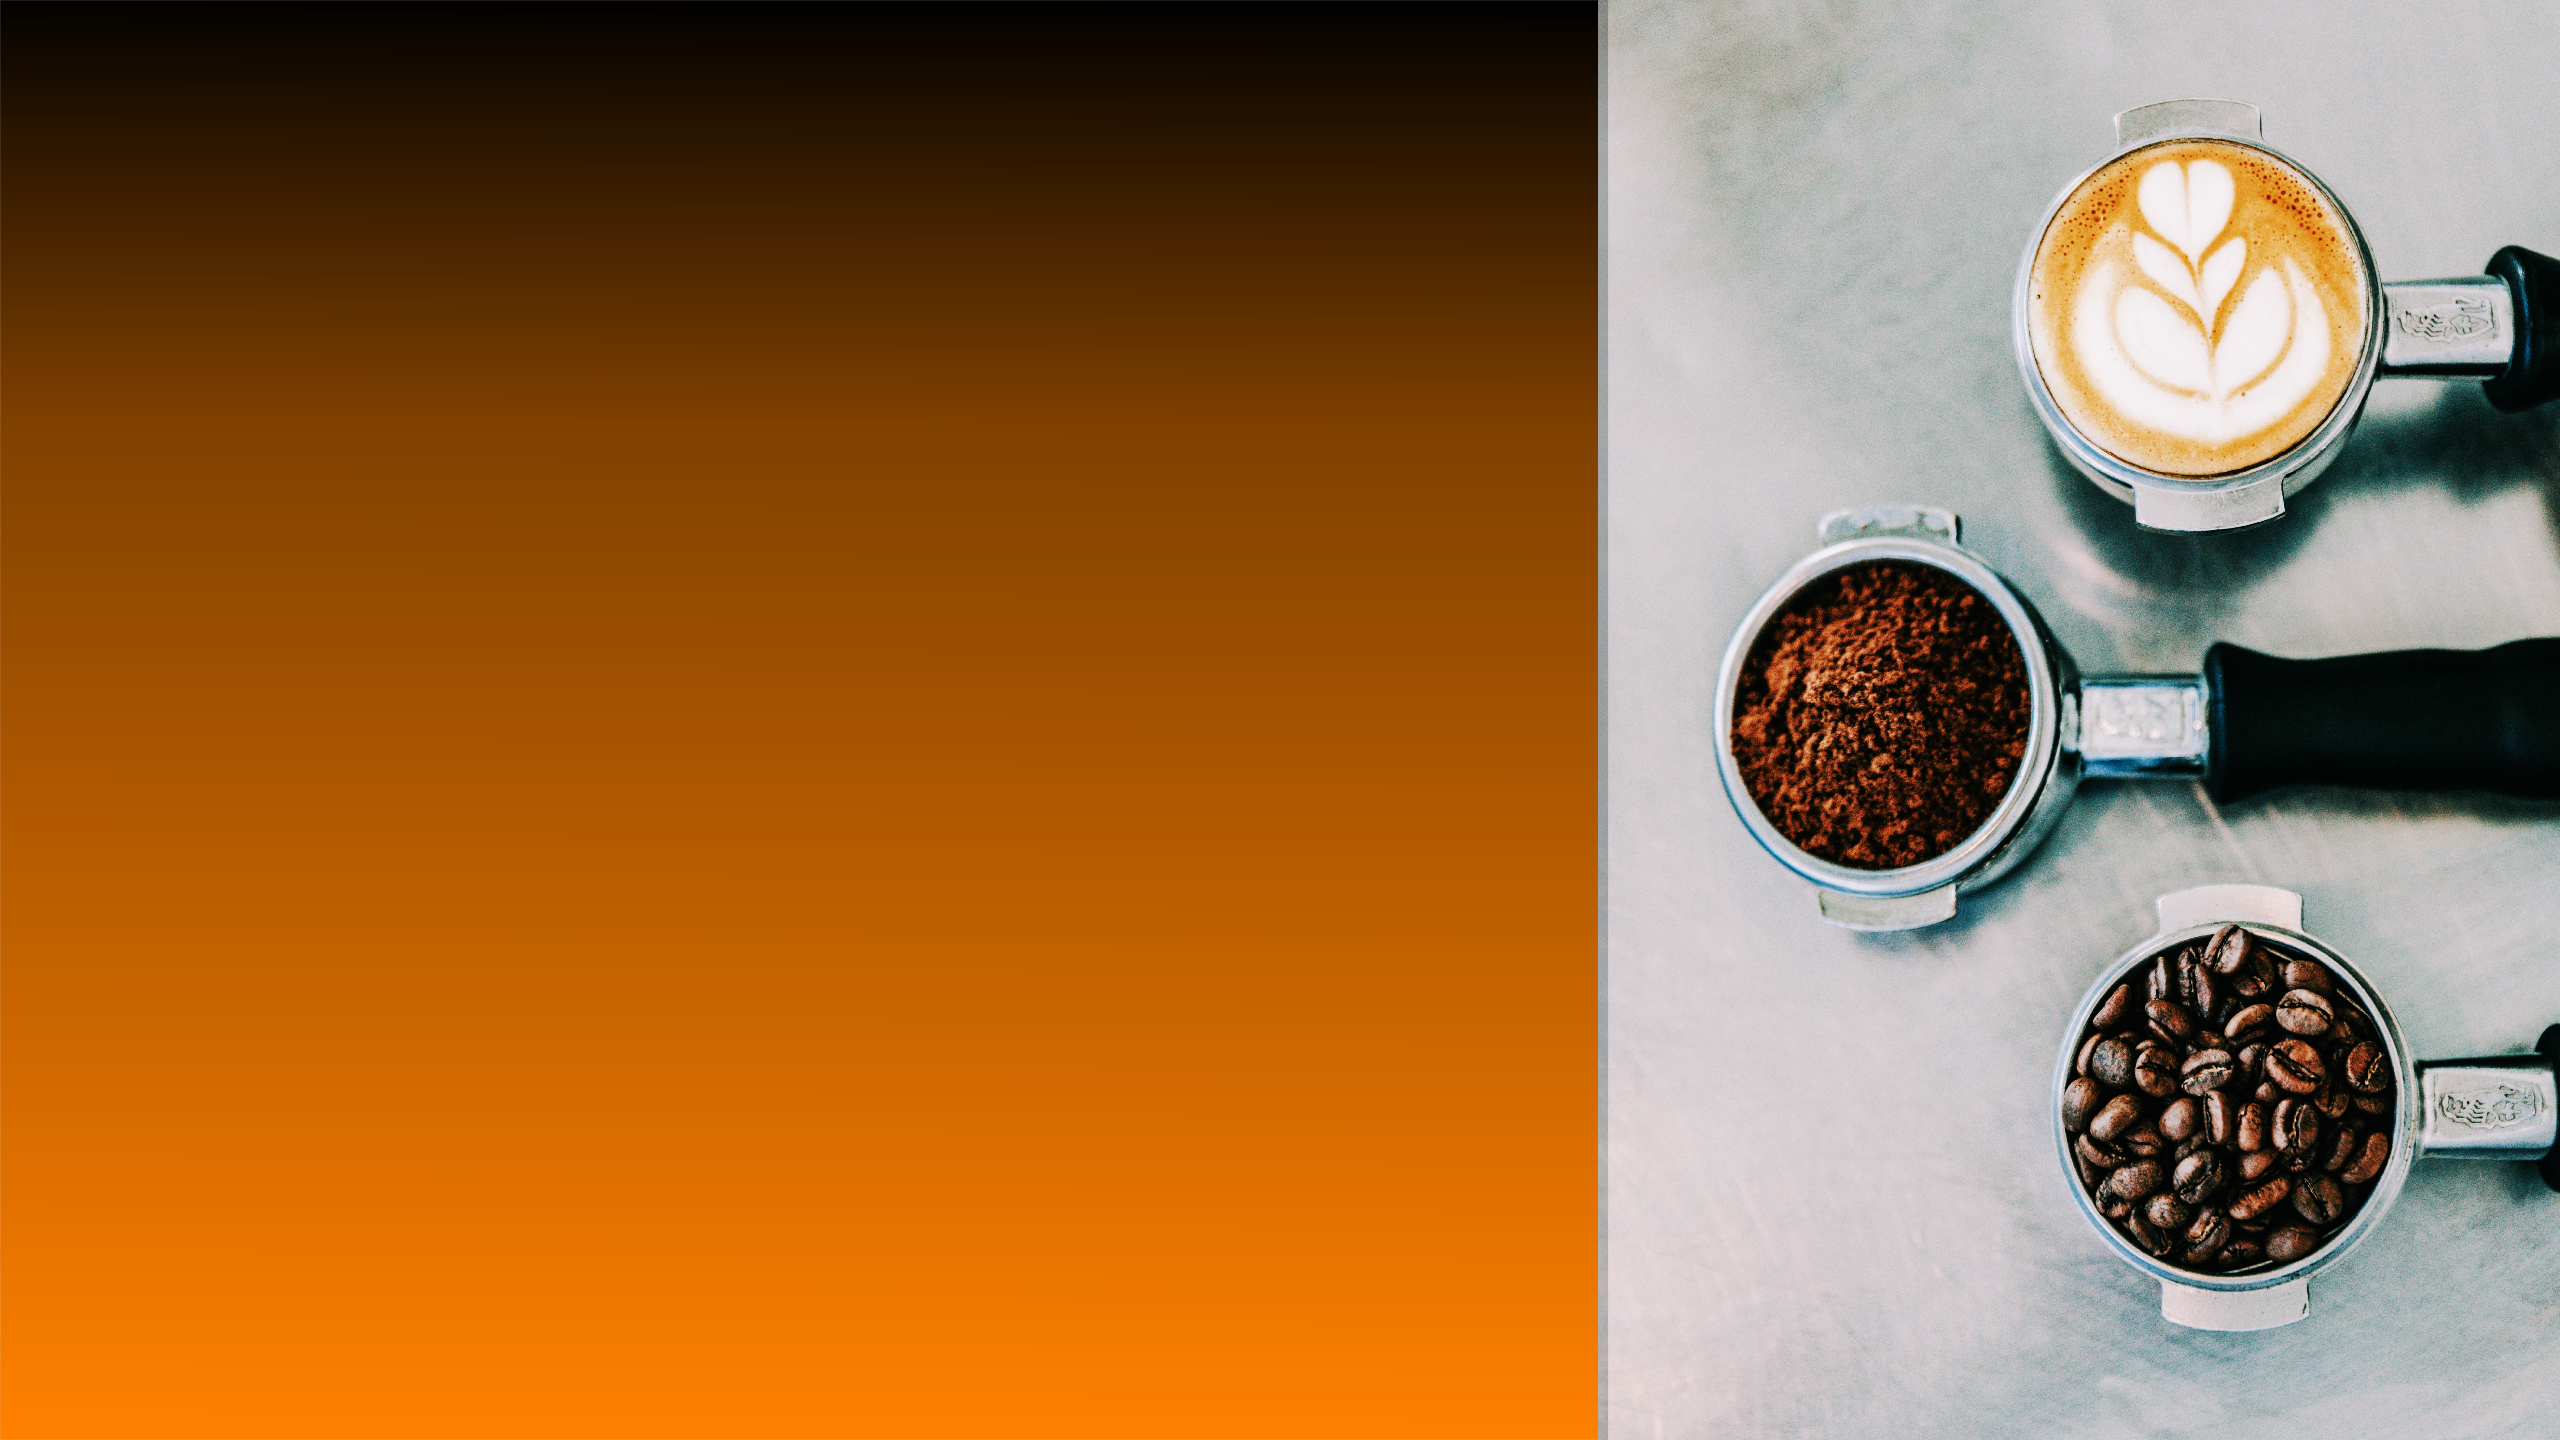
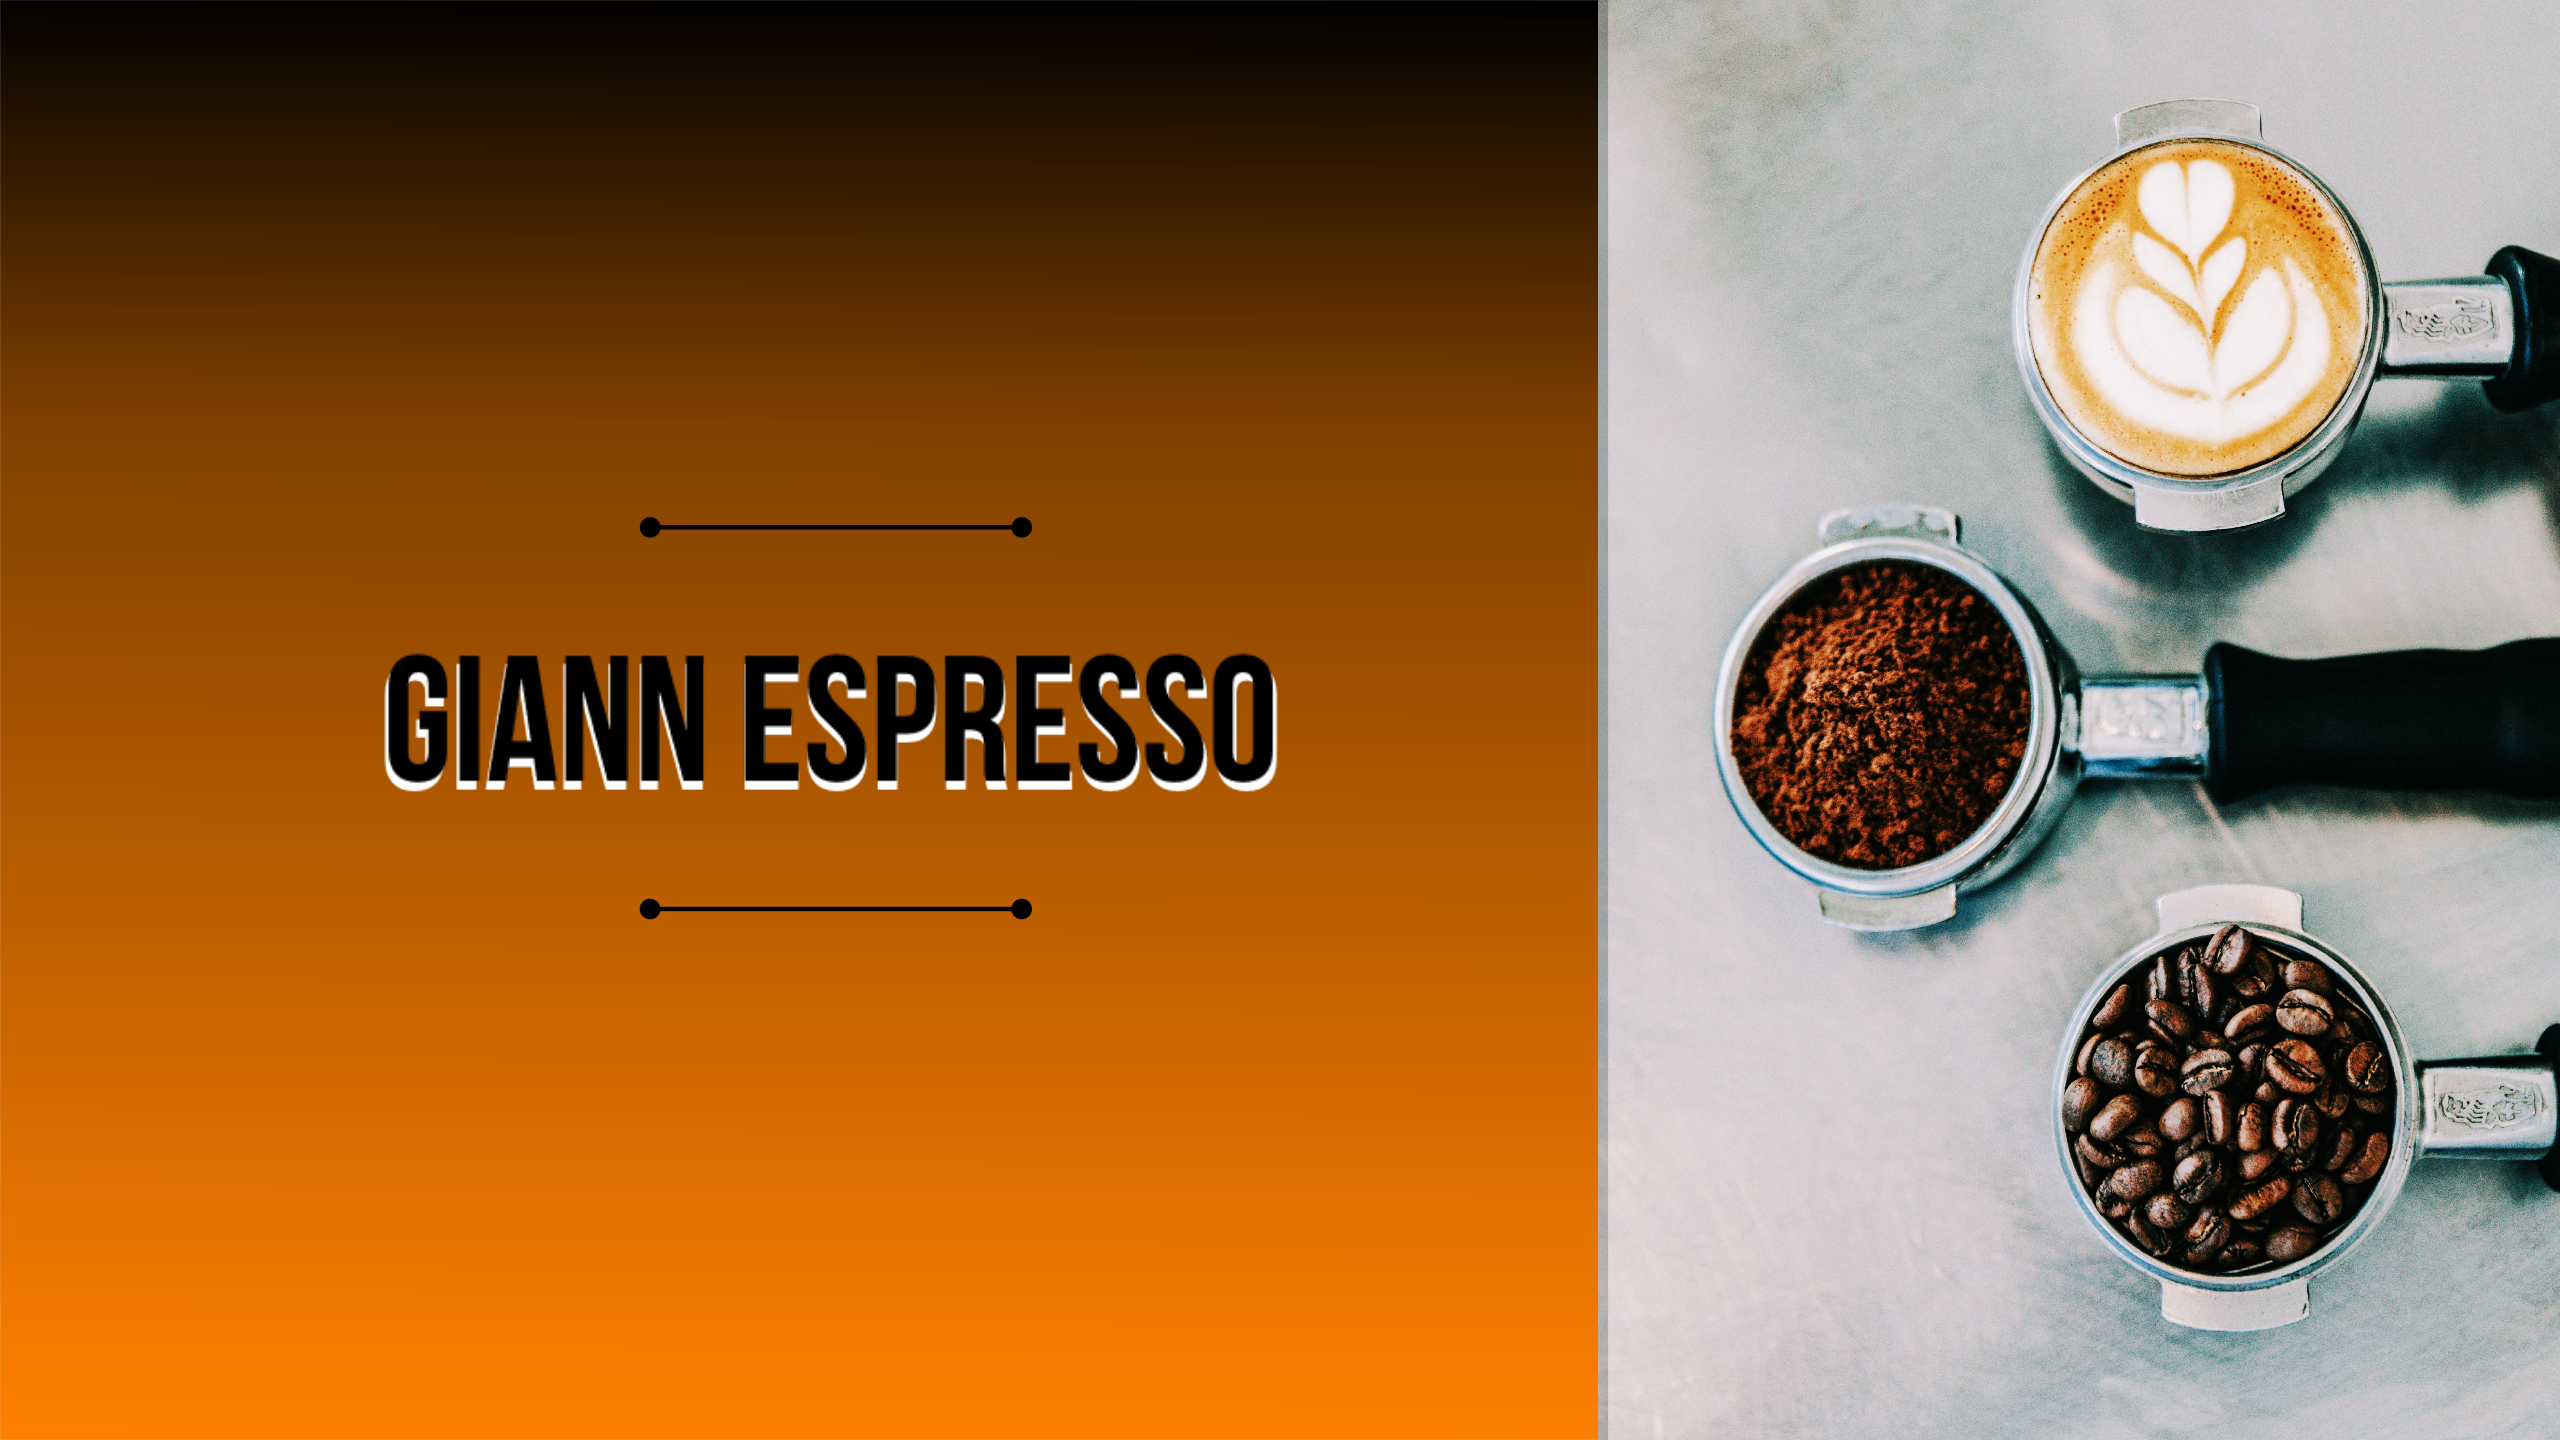
cambios nuevos

Changed region(s): [[0.125, 0.4375, 0.5, 0.5625], [0.25, 0.625, 0.4062, 0.6562], [0.25, 0.3438, 0.4062, 0.375]]

diff --git a/mi_primer_proyecto/src/app/pages/servicios/servicios.component.html b/mi_primer_proyecto/src/app/pages/servicios/servicios.component.html
@@ -1,4 +1,41 @@
 <div class="contenedor">
+  <div class="contenedor-cards">
+ <div class="contenedor-card-item">
+    <div class="contenedor-card-item-wrapper">
+     <a href="https://open.spotify.com/playlist/1olVuOb2VInTCOci7Y46ZK?si=I98QaGU8TXGpuL4jHjE57w&utm_source=whatsapp"><img src="https://i.pinimg.com/originals/fe/c4/ee/fec4ee0878590002498786fc5fecd088.gif" alt=""></a> 
+      <div class="contenedor-info">
+          <div class="info">
+            <p class="titulo">Spotify</p>
+          </div>
+          <div class="fondo"></div>
+      </div>
+    </div>
+</div>
+<div class="contenedor-card-item">
+  <div class="contenedor-card-item-wrapper">
+  <a href="https://ar.pinterest.com/da_saara19/cafeterias/"> <img src="https://i.pinimg.com/originals/fe/c4/ee/fec4ee0878590002498786fc5fecd088.gif" alt=""></a> 
+    <div class="contenedor-info">
+        <div class="info">
+          <p class="titulo">Pinterest</p>
+        </div>
+        <div class="fondo"></div>
+    </div>
+  </div>
+</div>
+<div class="contenedor-card-item">
+  <div class="contenedor-card-item-wrapper">
+  <a href="gianicposgmail.com"> <img src="https://i.pinimg.com/originals/fe/c4/ee/fec4ee0878590002498786fc5fecd088.gif" alt=""></a> 
+    <div class="contenedor-info">
+        <div class="info">
+          <p class="titulo">Gmail</p>
+        </div>
+        <div class="fondo"></div>
+    </div>
+  </div>
+</div>
+</div>
+</div>
+<div class="contenedor">
   <div class="contenedor-cards">            
     <div class="contenedor-card-item">
         <div class="contenedor-card-item-wrapper">
@@ -80,41 +117,5 @@
 </div>
 </div>
 <!--tarjeta 2-->
-<div class="contenedor">
-  <div class="contenedor-cards">
- <div class="contenedor-card-item">
-    <div class="contenedor-card-item-wrapper">
-     <a href="https://open.spotify.com/playlist/1olVuOb2VInTCOci7Y46ZK?si=I98QaGU8TXGpuL4jHjE57w&utm_source=whatsapp"><img src="https://i.pinimg.com/originals/fe/c4/ee/fec4ee0878590002498786fc5fecd088.gif" alt=""></a> 
-      <div class="contenedor-info">
-          <div class="info">
-            <p class="titulo">Spotify</p>
-          </div>
-          <div class="fondo"></div>
-      </div>
-    </div>
-</div>
-<div class="contenedor-card-item">
-  <div class="contenedor-card-item-wrapper">
-  <a href="https://ar.pinterest.com/da_saara19/cafeterias/"> <img src="https://i.pinimg.com/originals/fe/c4/ee/fec4ee0878590002498786fc5fecd088.gif" alt=""></a> 
-    <div class="contenedor-info">
-        <div class="info">
-          <p class="titulo">Pinterest</p>
-        </div>
-        <div class="fondo"></div>
-    </div>
-  </div>
-</div>
-<div class="contenedor-card-item">
-  <div class="contenedor-card-item-wrapper">
-  <a href="gianicposgmail.com"> <img src="https://i.pinimg.com/originals/fe/c4/ee/fec4ee0878590002498786fc5fecd088.gif" alt=""></a> 
-    <div class="contenedor-info">
-        <div class="info">
-          <p class="titulo">Gmail</p>
-        </div>
-        <div class="fondo"></div>
-    </div>
-  </div>
-</div>
-</div>
-</div>
+
 <app-footer></app-footer>

diff --git a/mi_primer_proyecto/src/app/pages/inicio/inicio.component.html b/mi_primer_proyecto/src/app/pages/inicio/inicio.component.html
@@ -1,9 +1,7 @@
 <div id="carouselExampleSlidesOnly" class="carousel slide" data-coreui-ride="carousel">
   <div class="carousel-inner">
-    <div class="carousel-item active">
-      <h3 style="text-align: center; float: left; color: white; font-family: Georgia, 'Times New Roman', Times, serif;">GIANN ESPRESSO</h3>
+    <div class="carousel-item active" style="text-align: start;">
       <img src="../../../assets/imagenes/carrousel.png" class="d-block w-100" alt="...">
-      
     </div>
   </div>
 </div>
@@ -16,10 +14,13 @@
     <p class="lead mb-0"><a routerLink="/combos" class="text-white fw-bold">Explora nuestras variedades...</a></p>
   </div>
 </div>
+
 <section style="text-align: center;">
   <img src="../../../assets/imagenes/menu especialidades.png" width="1000" alt="">
 </section>
-
+<div>
+  
+</div>
   <div class="d-md-flex flex-md-equal w-100 my-md-3 ps-md-3">
     <div style="background-color: black;"
       class="me-md-3 pt-3 px-3 pt-md-5 px-md-5 text-center text-dark overflow-hidden mt-4">
@@ -123,6 +124,7 @@
   <div style="text-align: center;">
     <img src="https://cdn.palbincdn.com/users/10526/images/blog/gallery/cabecera_0.jpg" alt="">
   </div>
+  
   <!--tarjetas-->
 <div class="contenedor">
   <div class="contenedor-cards">

diff --git a/mi_primer_proyecto/src/app/shared/navbar/navbar.component.css b/mi_primer_proyecto/src/app/shared/navbar/navbar.component.css
@@ -5,13 +5,10 @@
 .hm-gradient {
     background-image: linear-gradient(to top, #f3e7e9 0%, #e3eeff 99%, #e3eeff 100%);
 }
-.darken-grey-text {
-    color: #2E2E2E;
-}
 
 .navbar .dropdown-menu a:hover {
-    color: #616161 !important;
+    color: orangered !important;
 }
 .darken-grey-text {
-    color: #2E2E2E;
+    color: orange;
 }
